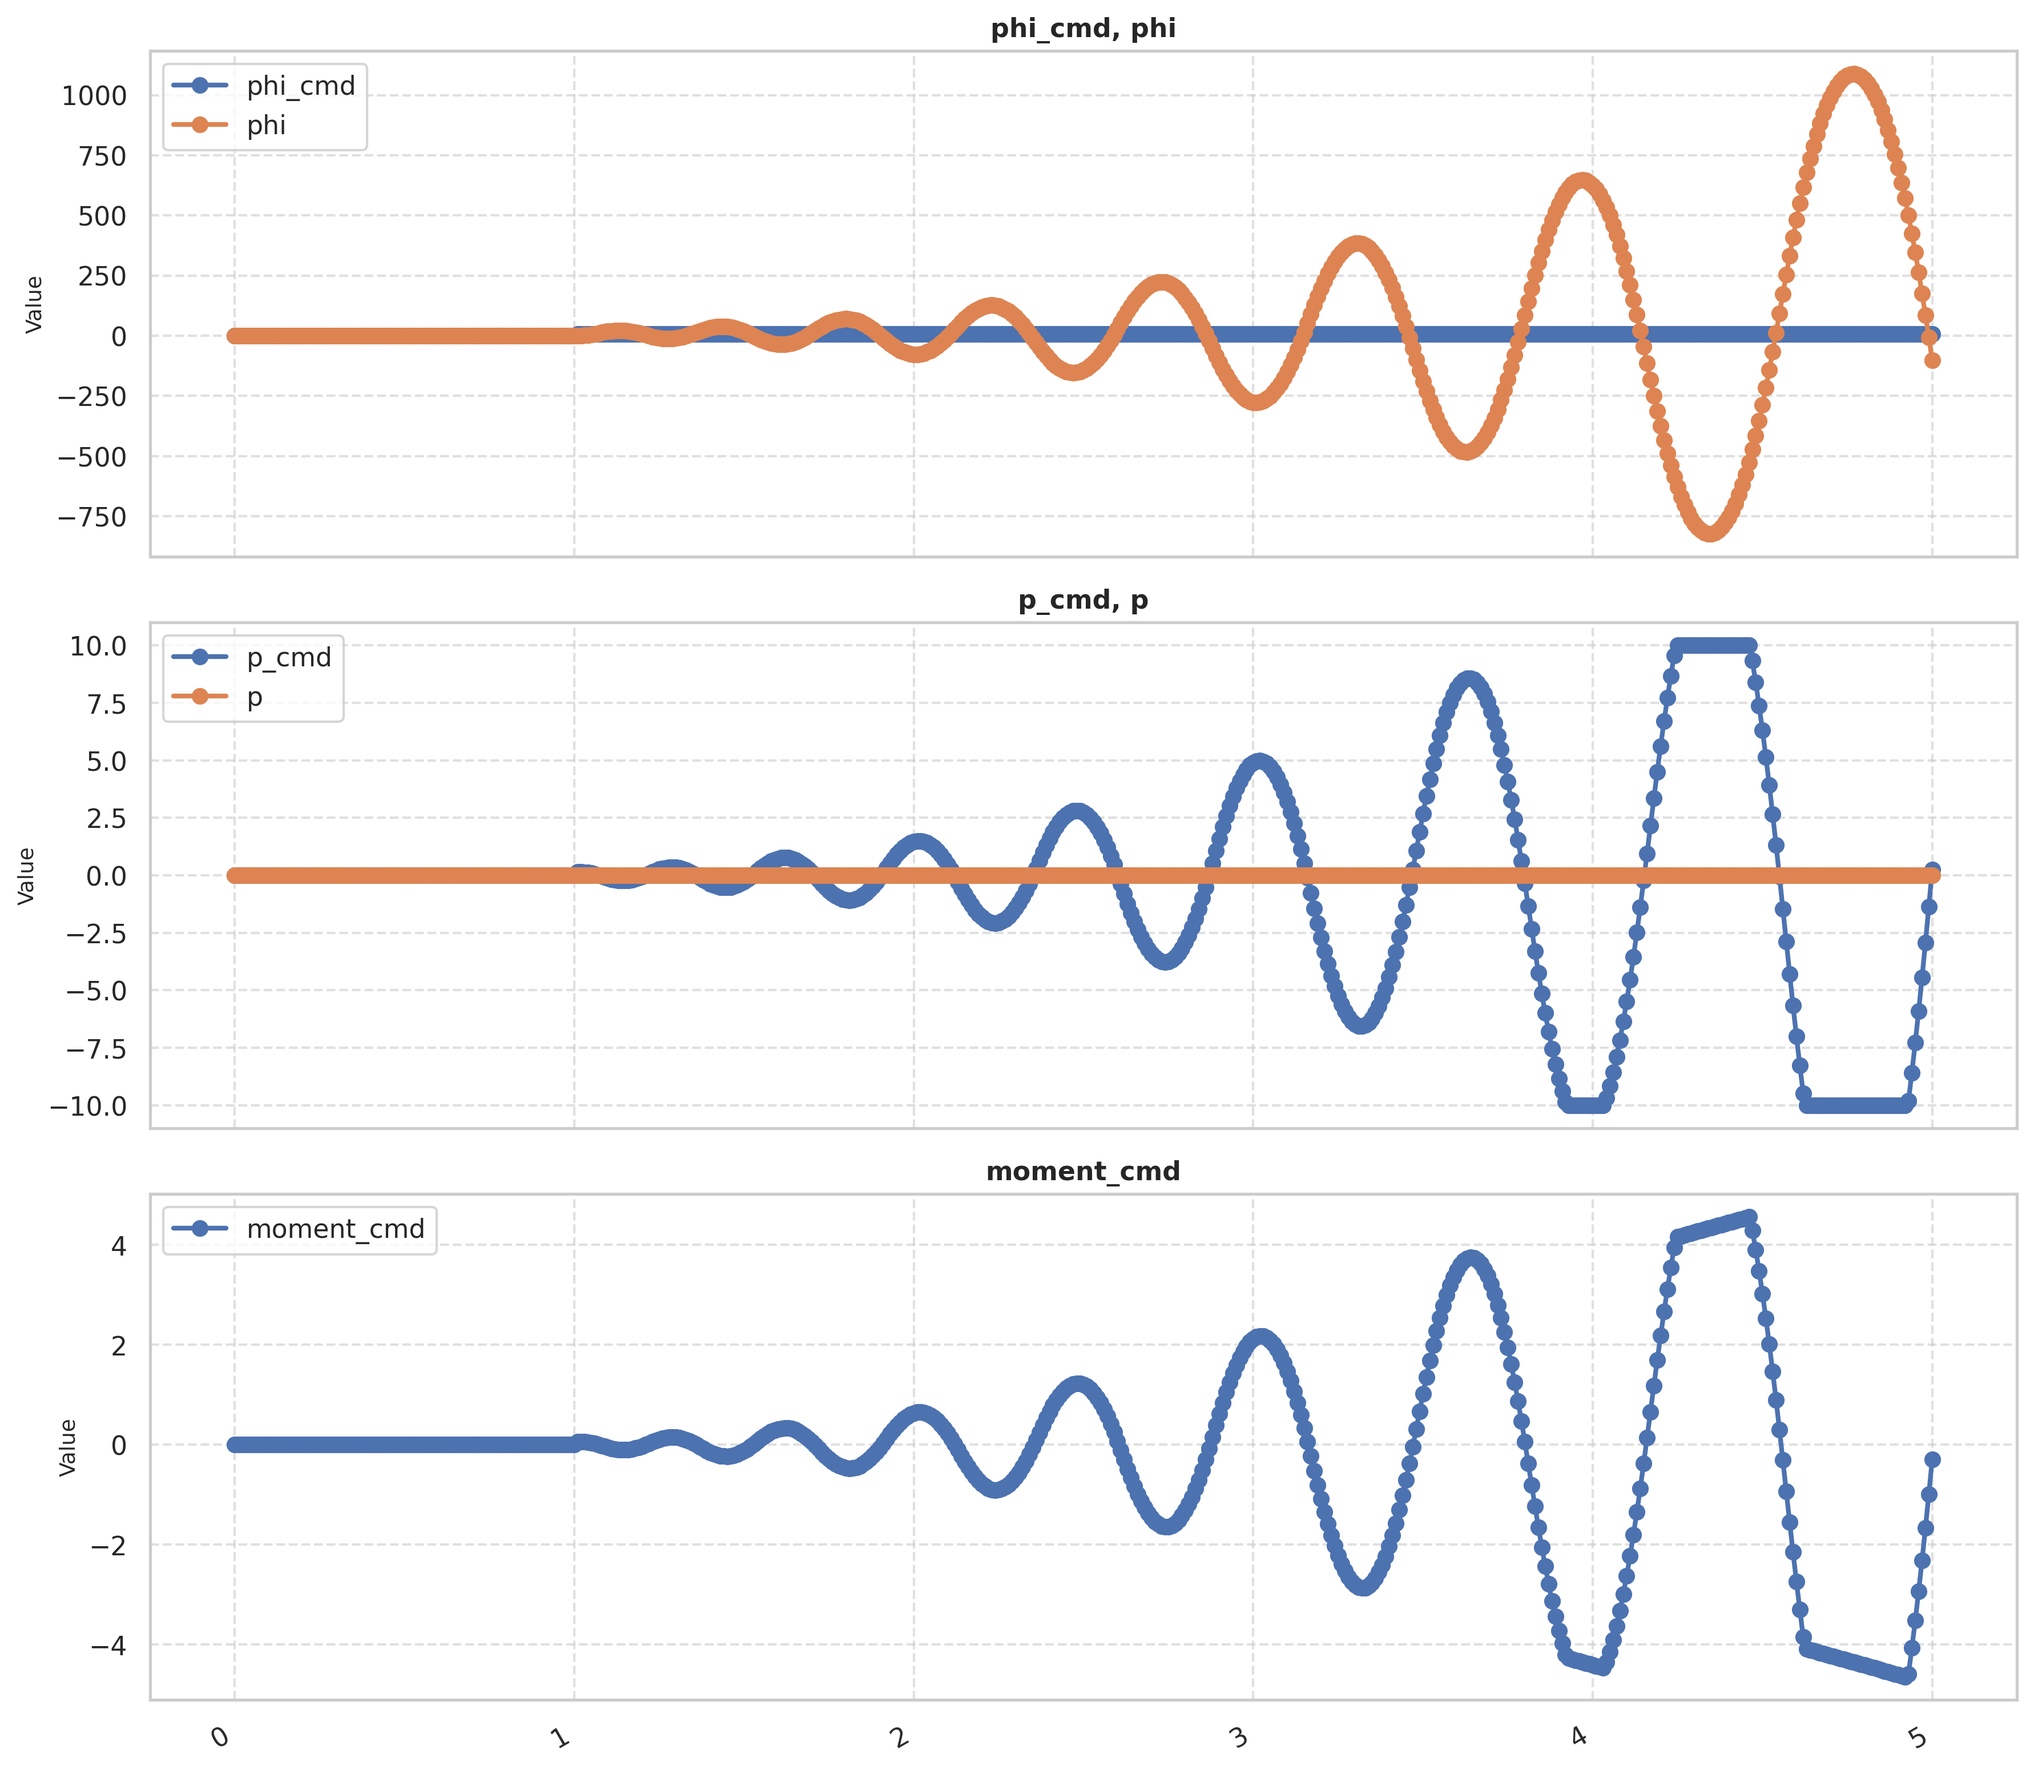
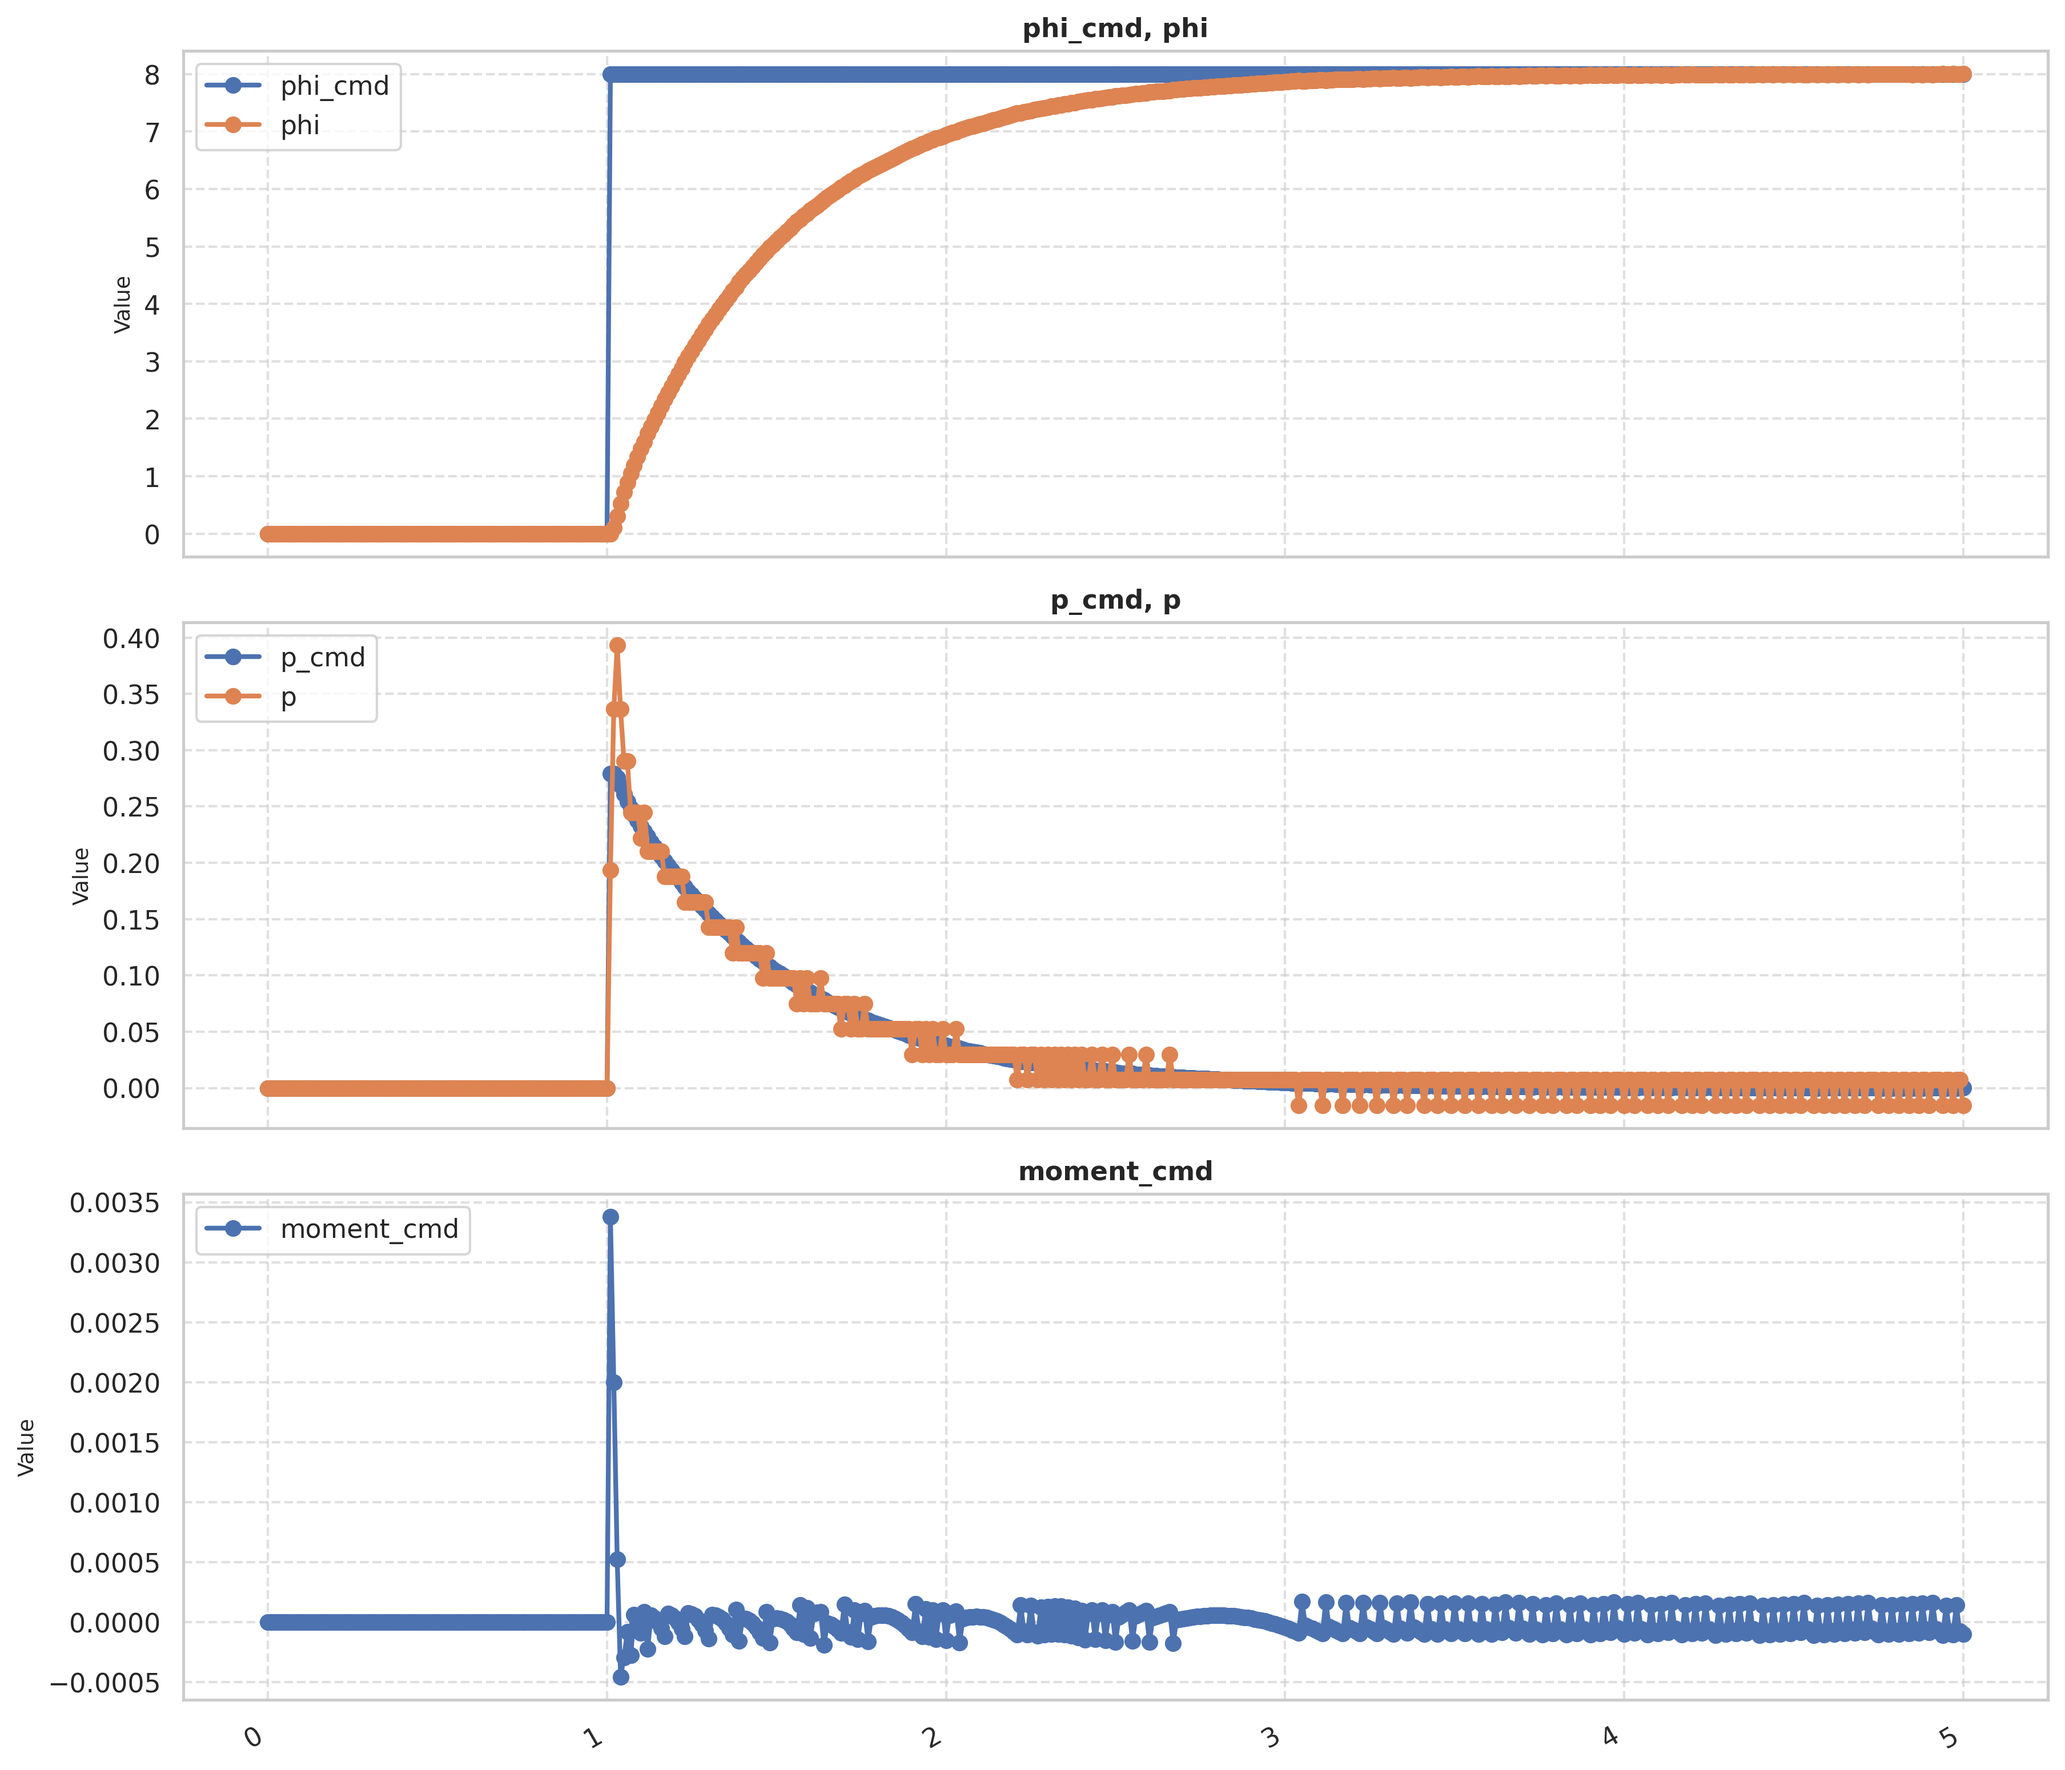
Roll control on state-space works well (same gains as pitch channel). It wasn't tracking before coz, variable p was assigned to wrong state idx

diff --git a/Aerospace/control/control_linear_model.py b/Aerospace/control/control_linear_model.py
@@ -353,9 +353,9 @@ def roll_channel_state_space():
 
     # Taking gains that were used in PID control of simple pitch model
     # Gains are tuned to minimize chattering, not fully gone though
-    kp_p = 0.0432 * 1
-    ki_p = 0.192 * 1
-    kp_phi = 2 * 1
+    kp_p = 0.0432 * 0.2
+    ki_p = 0.192 * 1.8
+    kp_phi = 2 *1 
 
     p_ctrlr = PIDController(kp_p, ki_p, 0., dt, output_limit=[-50, 50], integral_limit=[0,0])
     phi_ctrlr  = PIDController(kp_phi, 0., 0., dt, output_limit=[-10,10])
@@ -400,7 +400,7 @@ def roll_channel_state_space():
         u = v_inf.u_cmd_perturb([0., Mx_cmd, 0., 0.], [0]*4, 1.2)
 
         x += dt * lin_plant._derivatives(0, x, u)
-        p = x[2]
+        p = x[1]
         phi = x[3]
 
         # Log signals
